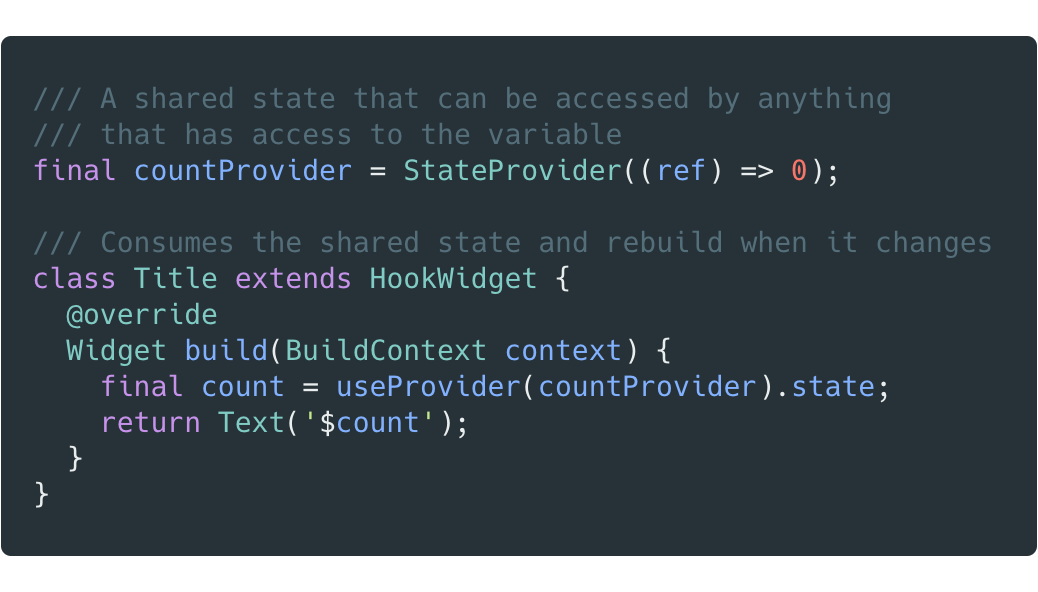
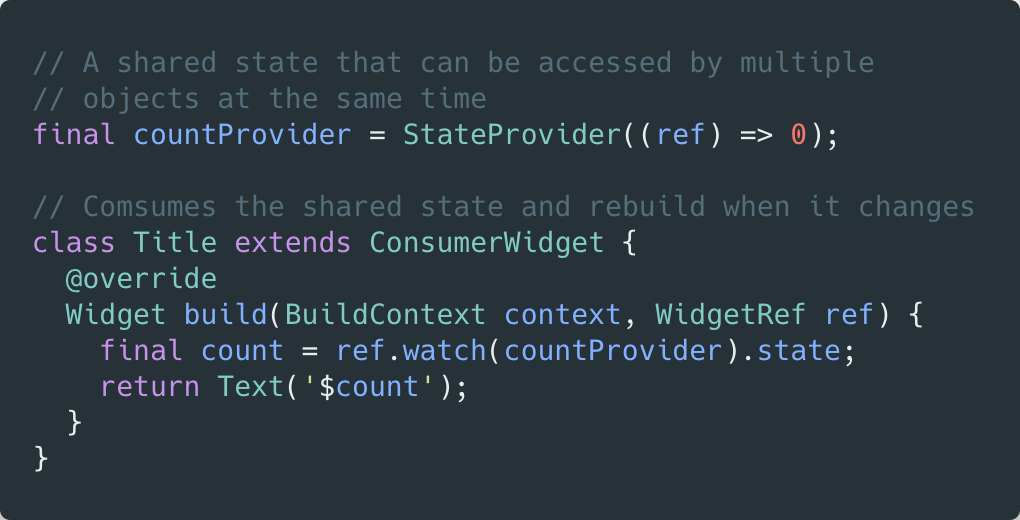
Update home-page

diff --git a/website/src/pages/index.js b/website/src/pages/index.js
@@ -22,8 +22,9 @@ const features = [
     imageUrl: "img/undraw_friendship.svg",
     description: (
       <>
-        Riverpod has support for multiple providers of the same type; combining
-        asynchronous providers; adding providers from anywhere, ...
+        Riverpod is inspired from Provider but solve key issues such as
+        supporting multiple providers of the same type; awaiting asyncrhonous
+        providers; adding providers from anywhere, ...
       </>
     ),
   },
@@ -33,7 +34,8 @@ const features = [
     description: (
       <>
         Create/share/tests providers, with no dependency on Flutter. This
-        includes being able to listen to providers without a <code>BuildContext</code>.
+        includes being able to listen to providers without a{" "}
+        <code>BuildContext</code>.
       </>
     ),
   },
@@ -92,10 +94,12 @@ function Home() {
           </div>
           <div className="row">
             <Preview
+              // https://carbon.now.sh/?bg=rgba%28171%2C184%2C195%2C0%29&t=material&wt=none&l=dart&ds=true&dsyoff=20px&dsblur=68px&wc=false&wa=true&pv=0px&ph=0px&ln=false&fl=1&fm=Hack&fs=14px&lh=133%25&si=false&es=2x&wm=false&code=final%2520counterProvider%2520%253D%2520StateNotifierProvider%253CCounter%252C%2520int%253E%28%28ref%29%2520%257B%250A%2520%2520return%2520Counter%28%29%253B%250A%257D%29%253B%250A%250Aclass%2520Counter%2520extends%2520StateNotifier%253Cint%253E%2520%257B%250A%2520%2520Counter%28%29%253A%2520super%280%29%253B%250A%2520%2520%250A%2520%2520void%2520increment%28%29%2520%253D%253E%2520state%252B%252B%253B%250A%257D
               imageUrl="img/intro/create_provider.png"
               title="Create a provider"
             ></Preview>
             <Preview
+              // https://carbon.now.sh/?bg=rgba%28171%2C184%2C195%2C0%29&t=material&wt=none&l=dart&ds=true&dsyoff=20px&dsblur=68px&wc=false&wa=true&pv=0px&ph=0px&ln=false&fl=1&fm=Hack&fs=14px&lh=133%25&si=false&es=2x&wm=false&code=class%2520Home%2520extends%2520ConsumerWidget%2520%257B%250A%2520%2520%2540override%250A%2520%2520Widget%2520build%28BuildContext%2520context%252C%2520WidgetRef%2520ref%29%2520%257B%250A%2520%2520%2520%2520final%2520count%2520%253D%2520ref.watch%28counterProvider%29%253B%250A%2520%2520%2520%2520%250A%2520%2520%2520%2520return%2520Text%28%27%2524count%27%29%253B%250A%2520%2520%257D%250A%257D
               imageUrl="img/intro/read_provider.png"
               title="Consume the provider"
             ></Preview>
@@ -117,8 +121,8 @@ function Home() {
 
         <section>
           <div className={styles.detailedFeatures}>
-            <div class="container">
-              <div class="row">
+            <div className="container">
+              <div className="row">
                 <div className="col">
                   <h2>Declare shared state from anywhere</h2>
                   <p>
@@ -133,6 +137,7 @@ function Home() {
                 </div>
                 <div className="col">
                   <img
+                    // https://carbon.now.sh/?bg=rgba%28171%2C184%2C195%2C0%29&t=material&wt=none&l=dart&ds=true&dsyoff=20px&dsblur=68px&wc=false&wa=true&pv=0px&ph=0px&ln=false&fl=1&fm=Hack&fs=14px&lh=133%25&si=false&es=2x&wm=false&code=%252F%252F%2520A%2520shared%2520state%2520that%2520can%2520be%2520accessed%2520by%2520multiple%250A%252F%252F%2520objects%2520at%2520the%2520same%2520time%250Afinal%2520countProvider%2520%253D%2520StateProvider%28%28ref%29%2520%253D%253E%25200%29%253B%250A%250A%252F%252F%2520Comsumes%2520the%2520shared%2520state%2520and%2520rebuild%2520when%2520it%2520changes%250Aclass%2520Title%2520extends%2520ConsumerWidget%2520%257B%250A%2520%2520%2540override%250A%2520%2520Widget%2520build%28BuildContext%2520context%252C%2520WidgetRef%2520ref%29%2520%257B%250A%2520%2520%2520%2520final%2520count%2520%253D%2520ref.watch%28countProvider%29.state%253B%250A%2520%2520%2520%2520return%2520Text%28%27%2524count%27%29%253B%250A%2520%2520%257D%250A%257D
                     src="img/intro/declare_anywhere.png"
                     alt="Declare your providers anywhere"
                   ></img>
@@ -141,8 +146,8 @@ function Home() {
             </div>
           </div>
           <div className={styles.detailedFeatures}>
-            <div class="container">
-              <div class="row">
+            <div className="container">
+              <div className="row">
                 <div className="col">
                   <img
                     src="img/intro/combining_providers.png"
@@ -162,8 +167,8 @@ function Home() {
                       <a href={useBaseUrl("docs/concepts/combining_providers")}>
                         Provider
                       </a>
-                    </code>
-                    {" "}and{" "}
+                    </code>{" "}
+                    and{" "}
                     <a href={useBaseUrl("docs/concepts/modifiers/family")}>
                       "families"
                     </a>
@@ -175,8 +180,8 @@ function Home() {
             </div>
           </div>
           <div className={styles.detailedFeatures}>
-            <div class="container">
-              <div class="row">
+            <div className="container">
+              <div className="row">
                 <div className="col">
                   <h2>Safely read providers</h2>
                   Reading a provider will never result in a bad state. If you
@@ -190,6 +195,7 @@ function Home() {
                 </div>
                 <div className="col">
                   <img
+                    // https://carbon.now.sh/?bg=rgba%28171%2C184%2C195%2C0%29&t=material&wt=none&l=dart&ds=true&dsyoff=20px&dsblur=68px&wc=false&wa=true&pv=0px&ph=0px&ln=false&fl=1&fm=Hack&fs=14px&lh=133%25&si=false&es=2x&wm=false&code=%252F%252F%2520Parse%2520a%2520file%2520without%2520having%2520to%2520deal%2520with%2520errors%250Afinal%2520configurationsProvider%2520%253D%2520FutureProvider%28%28ref%29%2520async%2520%257B%250A%2520%2520final%2520json%2520%253D%2520await%2520File.fromUri%28Uri.parse%28%27configs.json%27%29%29%250A%2520%2520%2520%2520.readAsString%28%29%253B%250A%2520%250A%2520%2520return%2520Configurations.fromJson%28json%29%253B%250A%257D%29%253B%250A%250Aclass%2520Example%2520extends%2520ConsumerWidget%2520%257B%250A%2520%2520%2540override%250A%2520%2520Widget%2520build%28BuildContext%2520context%252C%2520WidgetRef%2520ref%29%2520%257B%250A%2520%2520%2520%2520final%2520configs%2520%253D%2520ref.watch%28configurationsProvider%29%253B%250A%2520%2520%2520%2520%250A%2520%2520%2520%2520%252F%252F%2520Use%2520Riverpod%27s%2520built-in%2520support%250A%2520%2520%2520%2520%252F%252F%2520for%2520error%252Floading%2520states%2520using%2520%2522when%2522%253A%250A%2520%2520%2520%2520return%2520configs.when%28%250A%2520%2520%2520%2520%2520%2520%252F%252F%2520Currently%2520reading%2520the%2520file%250A%2520%2520%2520%2520%2520%2520loading%253A%2520%28_%29%2520%253D%253E%2520const%2520CircularProgressIndicator%28%29%252C%250A%2520%2520%2520%2520%2520%2520%252F%252F%2520If%2520the%2520configurations%2520failed%2520to%2520parse%250A%2520%2520%2520%2520%2520%2520error%253A%2520%28err%252C%2520stack%252C%2520_%29%2520%253D%253E%2520Text%28%27Error%2520%2524err%27%29%252C%250A%2520%2520%2520%2520%2520%2520data%253A%2520%28configs%29%2520%253D%253E%2520Text%28%27data%253A%2520%2524%257Bconfigs.host%257D%27%29%252C%250A%2520%2520%2520%2520%29%253B%250A%2520%2520%257D%250A%257D
                     src="img/intro/async.png"
                     alt="Asynchronously loaded providers"
                   ></img>
@@ -198,8 +204,8 @@ function Home() {
             </div>
           </div>
           <div className={styles.detailedFeatures}>
-            <div class="container">
-              <div class="row">
+            <div className="container">
+              <div className="row">
                 <div className="col">
                   <img src="img/intro/devtool.png" alt="Devtool support"></img>
                 </div>

diff --git a/website/docusaurus.config.js b/website/docusaurus.config.js
@@ -1,6 +1,6 @@
 module.exports = {
   title: "Riverpod",
-  tagline: "Provider, but different",
+  tagline: "A Reactive State-Management and Dependency Injection framework",
   url: "https://riverpod.dev",
   baseUrl: "/",
   favicon: "img/logo.svg",
